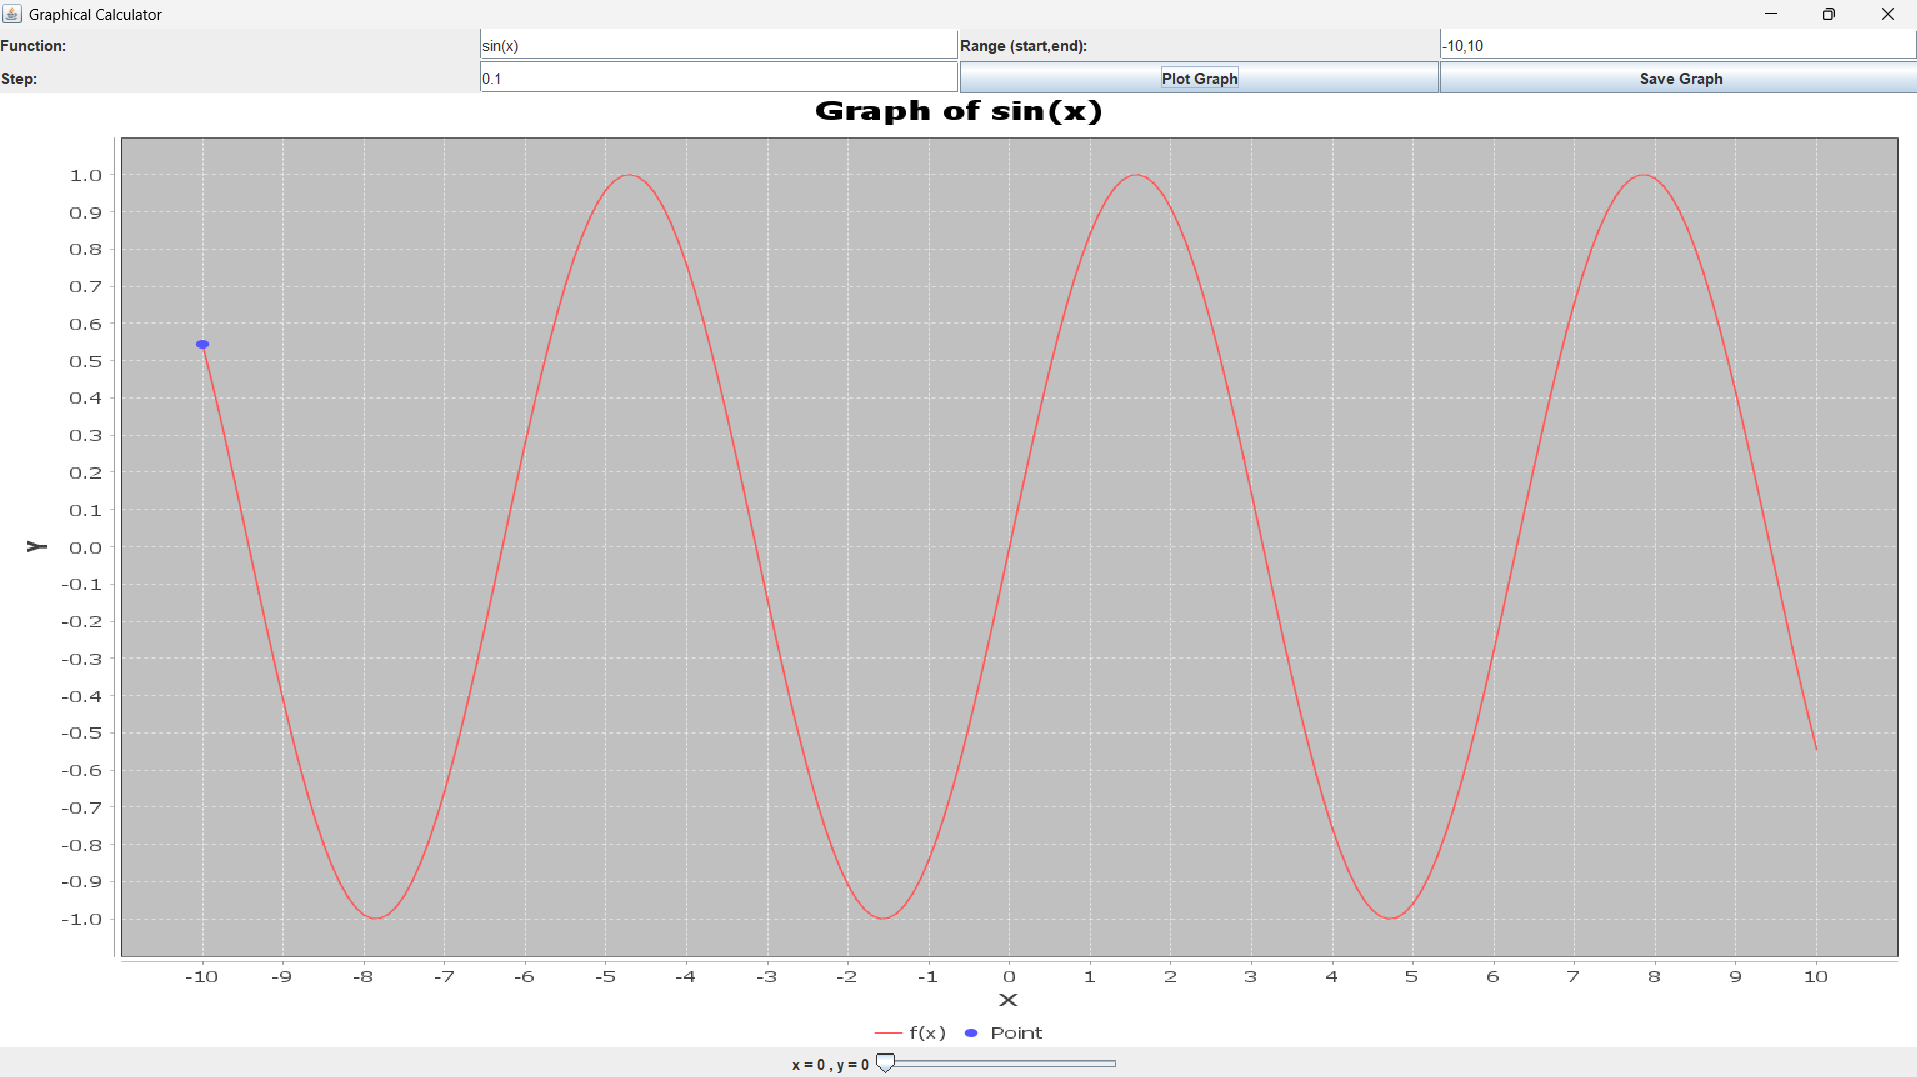
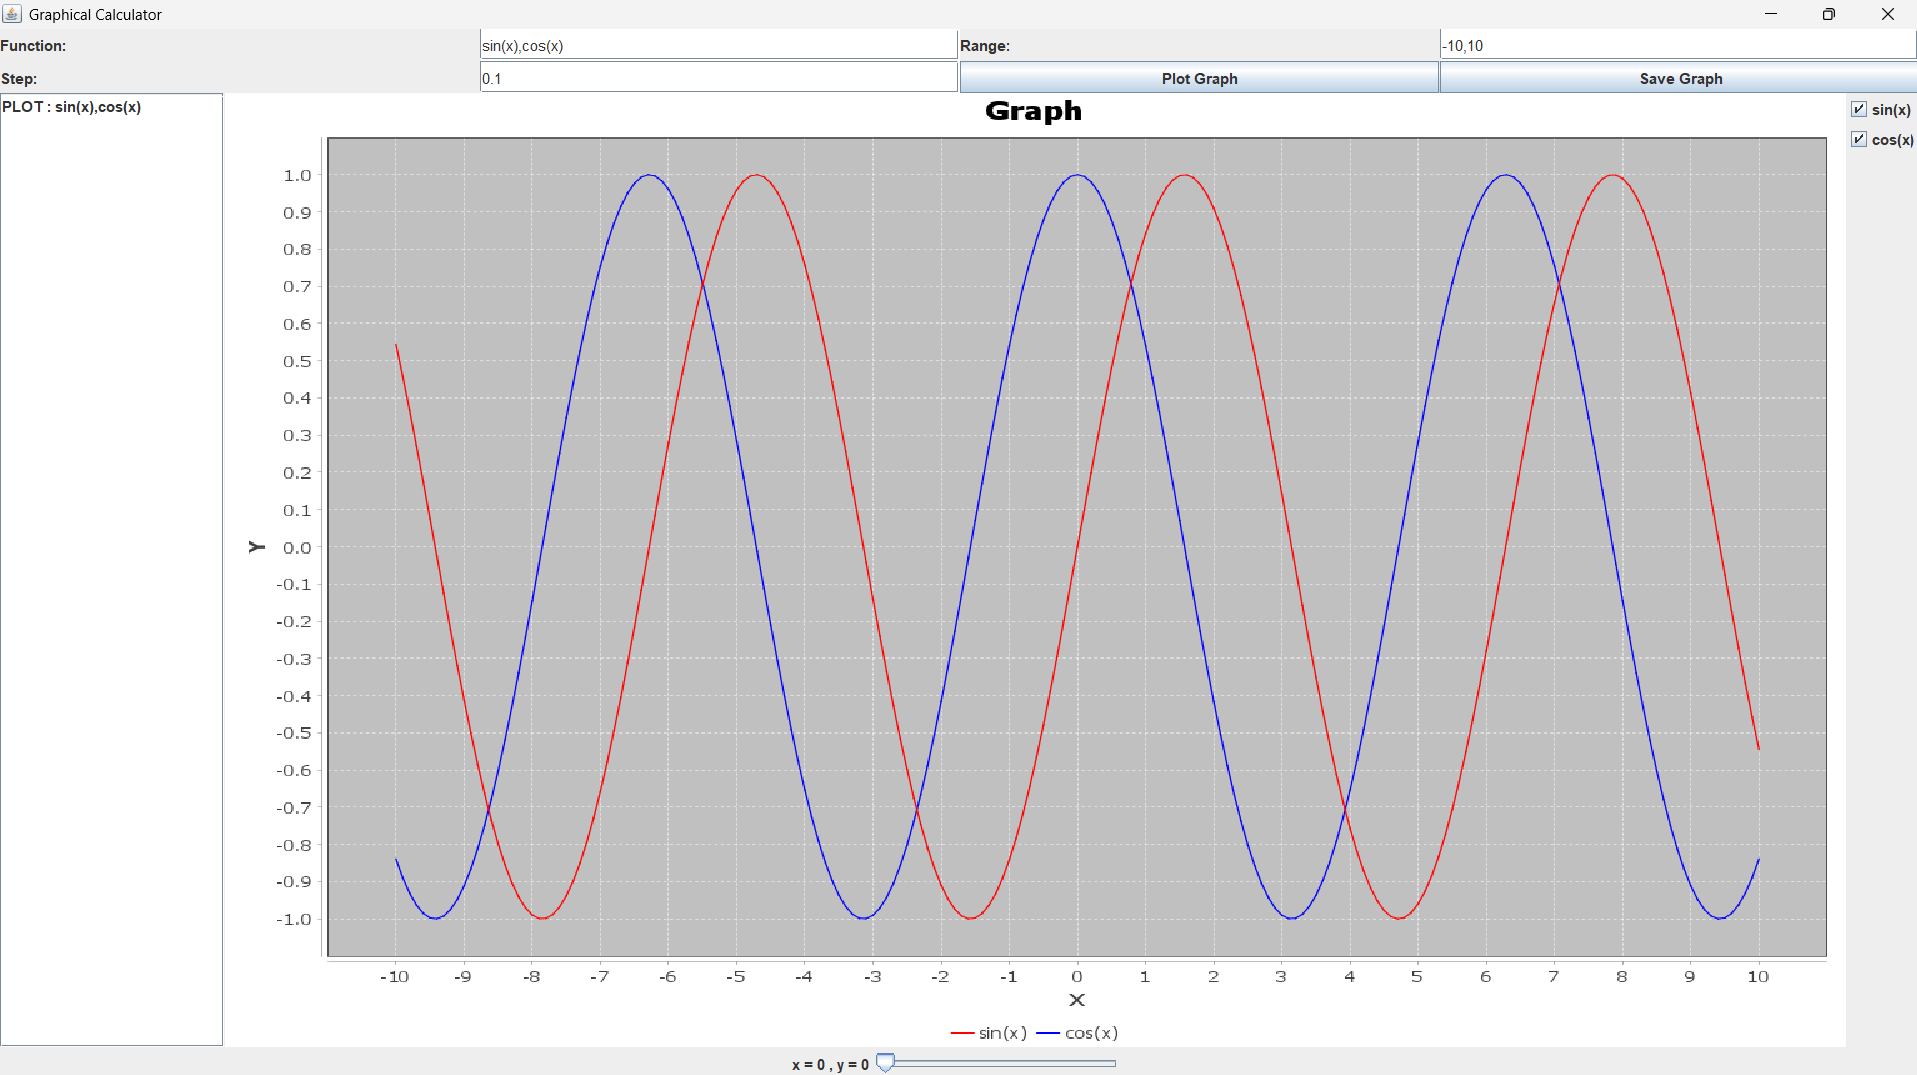
ReadMe Updated

diff --git a/README.md b/README.md
@@ -1,6 +1,6 @@
 # Graphical Calculator
 
-A Java Swing-based graphical calculator with graph plotting capabilities using JFreeChart and exp4j.
+A desktop-based Graphical Calculator built using Java Swing that supports multi-function graph plotting, interactive selection, history tracking, and dark mode UI.
 
 ## Screenshot
 
@@ -8,26 +8,31 @@ A Java Swing-based graphical calculator with graph plotting capabilities using J
 
 ## Features
 
-- Basic arithmetic operations
-- Function graph plotting
-- Expression evaluation using exp4j
-- Save graphs as PNG images
-- Interactive GUI built with Java Swing
+- Multi-function graph plotting (e.g., sin(x), cos(x), x^2)
+- Checkbox-based function selection (show/hide graphs dynamically)
+- History tracking of previous plots
+- Double-click history to reload function
+- Interactive slider for real-time (x, y) values
+- Dark mode UI toggle
+- Save graph as PNG image
 
 ## Technologies Used
 
 - Java
-- Swing
-- JFreeChart
-- exp4j
+- Swing (GUI)
+- JFreeChart (Graph plotting)
+- exp4j (Expression evaluation)
+- File handling (CSV + history storage)
 
 ## Project Structure
 
 ```
-src/          Source files
-lib/          External libraries
-screenshots/  Images
-data.csv      Data storage
+src/           Java source files
+lib/           External libraries (JFreeChart, exp4j)
+bin/           Compiled class files
+screenshots/   UI screenshots
+graph.png      Exported graph image
+data.csv       Function data output
 ```
 
 ## Compile
@@ -42,6 +47,30 @@ javac -cp "lib/*" -d bin src/*.java
 java -cp "bin;lib/*" GraphicalCalculator
 ```
 
+## Example Input
+
+```bash
+sin(x), cos(x), x^2
+```
+
+## Output
+
+- Multiple graphs displayed on same chart
+- Each function has different color
+- Functions can be toggled using checkboxes
+
+
+## Future Improvements
+
+- Real-time graph updates (no Plot button required)
+- Zoom and pan support
+- Function editing directly on graph
+- Maven build system integration
+- Export as executable JAR
+- Web version using React + backend
+
+
 ## Author
 
 Rohit Rajana
+Java CSE Project — Graphical Calculator
